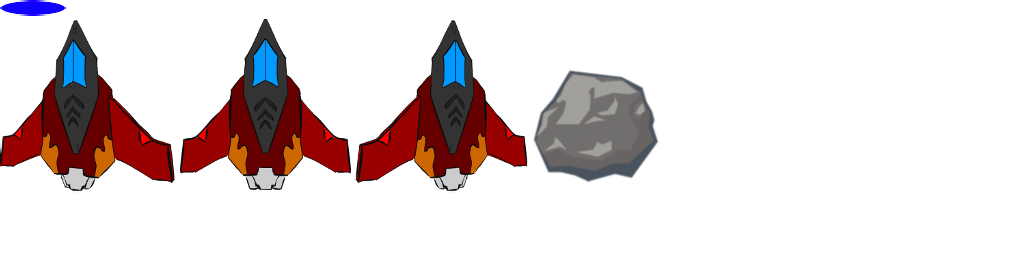
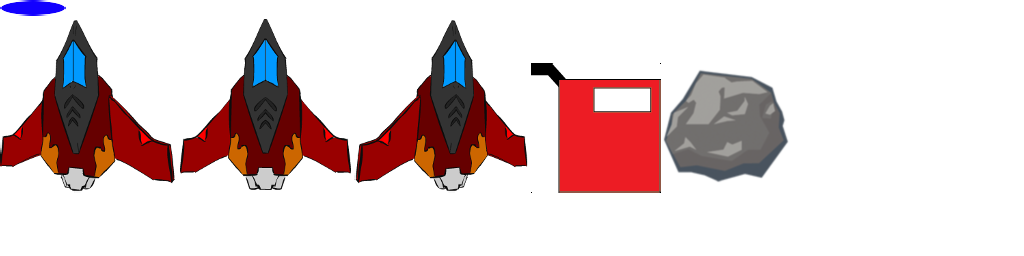
fuel now spawns and it is playable

Changed region(s): [[0.5, 0.25, 0.7812, 0.7812]]

diff --git a/core/src/com/hypetrainstudios/dontcrash/entities/SpaceShip.java b/core/src/com/hypetrainstudios/dontcrash/entities/SpaceShip.java
@@ -18,8 +18,6 @@ public class SpaceShip extends Entity implements InputProcessor{
 	private float fireRate;
 	private float fireCounter;
 	
-	
-	
 	/* Used for Dodge Method */
 	private float percent;
 	private float dodgeRate;
@@ -36,8 +34,6 @@ public class SpaceShip extends Entity implements InputProcessor{
 	private float distanceTraveled;
 	public SpaceShip(){
 		this.image = new Sprite(AssetHandler.manager.get(AssetHandler.atlasImages).findRegion("space_ship_normal"));
-		
-		
 		
 		/* Positions */
 		this.centerPosition = Gdx.graphics.getHeight() * (3/6f);
@@ -60,8 +56,8 @@ public class SpaceShip extends Entity implements InputProcessor{
 		this.fireCounter = 1.5f;
 		
 		
-		this.dodgeCounter = .75f;
-		this.dodgeRate = 1.5f;
+		this.dodgeCounter = .25f;
+		this.dodgeRate = .5f;
 		
 		this.dodgeStart = bottomPosition;
 		this.dodgeEnd = topPosition;
@@ -69,8 +65,8 @@ public class SpaceShip extends Entity implements InputProcessor{
 		this.dodgeFinished = true;
 		
 		
-		this.dodgeTimeMiddle = .75f;
-		this.dodgeTimeTop = 1.5f;
+		this.dodgeTimeMiddle = .25f;
+		this.dodgeTimeTop = .5f;
 		this.dodgeTimeBottom = 0;
 		
 		this.dodgeTimeTemp = this.dodgeTimeMiddle;
@@ -78,7 +74,7 @@ public class SpaceShip extends Entity implements InputProcessor{
 		
 		this.currentInput = -1;
 		
-		increaseDodgeRate(1f);
+		//increaseDodgeRate(1f);
 		
 		
 	}
@@ -132,7 +128,6 @@ public class SpaceShip extends Entity implements InputProcessor{
 		this.dodgeTimeMiddle = newRate/2f;
 		this.dodgeTimeTop = newRate;
 	}
-	
 	private void updateCamera(){
 		DontCrash.cam.position.x = (this.x) + (.4f*Gdx.graphics.getWidth());
 		DontCrash.cam.update();
@@ -187,6 +182,10 @@ public class SpaceShip extends Entity implements InputProcessor{
 	}
 	@Override
 	public boolean keyUp(int keycode) {
+		if(fireCounter>=fireRate&&dodgeFinished&&keycode==Keys.SPACE){
+			DontCrash.createProjectile(this.x + 50, this.y);
+			fireCounter = 0;
+		}
 		if(keycode==Keys.W||keycode==Keys.S){
 		
 		if(currentInput==Keys.W||currentInput==Keys.A){
@@ -219,12 +218,7 @@ public class SpaceShip extends Entity implements InputProcessor{
 
 	@Override
 	public boolean touchUp(int screenX, int screenY, int pointer, int button) {
-		if(fireCounter>=fireRate&&dodgeFinished){
-			DontCrash.createProjectile(this.x + 50, this.y);
-			fireCounter = 0;
-		}
-		if(button==Buttons.RIGHT)
-			DontCrash.reset();
+		
 		return false;
 	}
 

diff --git a/core/src/com/hypetrainstudios/dontcrash/handlers/ChunkHandler.java b/core/src/com/hypetrainstudios/dontcrash/handlers/ChunkHandler.java
@@ -6,7 +6,7 @@ import com.badlogic.gdx.math.Rectangle;
 import com.hypetrainstudios.dontcrash.DontCrash;
 
 public class ChunkHandler {
-	private static float gapX = Gdx.graphics.getWidth()/2;
+	private static float gapX = Gdx.graphics.getWidth()*.6f ;
 	private static int waveCounter = 0;
 	private static int chunkCounter = 0;
 	private static final float centerPosition = Gdx.graphics.getHeight() * (3/6f);
@@ -44,8 +44,22 @@ public class ChunkHandler {
 	}
 	public static void createChunk(){
 		for(int i = 0; i<10; i++){
+			
 			waveCounter++;
 			int numberOfRocksPerWave = MathUtils.random(1, 3);
+			
+			if(i==7){
+				int rdm = MathUtils.random(2);
+				if(rdm==0){
+					DontCrash.createFuel((gapX * waveCounter)-(Gdx.graphics.getWidth()*.1f),topPosition);
+				}
+				else if(rdm==1){
+					DontCrash.createFuel((gapX * waveCounter)-(Gdx.graphics.getWidth()*.1f),centerPosition);
+				}
+				else{
+					DontCrash.createFuel((gapX * waveCounter)-(Gdx.graphics.getWidth()*.1f),bottomPosition);
+				}
+			}
 			if(numberOfRocksPerWave==3){
 				DontCrash.createSpaceRock((gapX * waveCounter),topPosition);
 				DontCrash.createSpaceRock((gapX * waveCounter),centerPosition);

diff --git a/core/src/com/hypetrainstudios/dontcrash/handlers/CollisionHandler.java b/core/src/com/hypetrainstudios/dontcrash/handlers/CollisionHandler.java
@@ -4,6 +4,7 @@ import com.hypetrainstudios.dontcrash.DontCrash;
 
 public class CollisionHandler {
 	public static void update(){
+		
 		for(int i = 0; i<DontCrash.projectiles.size();i++){
 			for(int n = 0; n < DontCrash.spaceRocks.size(); n ++ ){
 				if(DontCrash.projectiles.get(i).getRectangle().overlaps(DontCrash.spaceRocks.get(n).getRectangle())){
@@ -11,6 +12,12 @@ public class CollisionHandler {
 				}
 			}
 		}
+		
+		for(int i = 0; i < DontCrash.fuel.size(); i ++ ){
+			if(DontCrash.fuel.get(i).getRectangle().overlaps(DontCrash.spaceShip.getRectangle()))
+				collisionBetweenFuelAndSpaceShip(i);
+		}
+		
 		for(int i = 0; i < DontCrash.spaceRocks.size(); i ++ ){
 			if(DontCrash.spaceRocks.get(i).getRectangle().overlaps(DontCrash.spaceShip.getRectangle()))
 				collisionBetweenSpaceRockAndSpaceShip(i);
@@ -23,5 +30,8 @@ public class CollisionHandler {
 	public static void collisionBetweenSpaceRockAndSpaceShip(int i){
 		DontCrash.spaceRocks.get(i).collisionWithSpaceShip();
 		DontCrash.spaceShip.collisionWithSpaceRock();
+	}
+	public static void collisionBetweenFuelAndSpaceShip(int i){
+		DontCrash.fuel.get(i).collisionWithSpaceShip();
 	}
 }

diff --git a/core/src/com/hypetrainstudios/dontcrash/entities/Fuel.java b/core/src/com/hypetrainstudios/dontcrash/entities/Fuel.java
@@ -1,5 +1,21 @@
 package com.hypetrainstudios.dontcrash.entities;
 
-public class Fuel extends Entity{
+import com.badlogic.gdx.graphics.g2d.Sprite;
+import com.hypetrainstudios.dontcrash.DontCrash;
+import com.hypetrainstudios.dontcrash.handlers.AssetHandler;
 
+public class Fuel extends Entity{
+	public Fuel(float x, float y){
+		this.image = new Sprite(AssetHandler.manager.get(AssetHandler.atlasImages).findRegion("fuelcan"));
+		this.x = x;
+		this.y = y;
+		this.image.setCenter(this.x, this.y);
+		this.active = true;
+		this.rectangleForCollision = this.image.getBoundingRectangle();
+	}
+	@Override
+	public void collisionWithSpaceShip(){
+		this.active = false;
+		DontCrash.spaceShip.resetDistanceTraveled();
+	}
 }

diff --git a/core/src/com/hyeptrainstudios/dontcrash/screens/GameScreen.java b/core/src/com/hyeptrainstudios/dontcrash/screens/GameScreen.java
@@ -36,6 +36,8 @@ public class GameScreen implements Screen{
 		for(int i = 0; i<DontCrash.projectiles.size(); i ++)
 			DontCrash.projectiles.get(i).getSprite().draw(DontCrash.batch);
 		
+		for(int i = 0; i<DontCrash.fuel.size(); i ++)
+			DontCrash.fuel.get(i).getSprite().draw(DontCrash.batch);
 		
 		DontCrash.batch.end();
 	}

diff --git a/core/src/com/hypetrainstudios/dontcrash/DontCrash.java b/core/src/com/hypetrainstudios/dontcrash/DontCrash.java
@@ -61,6 +61,9 @@ public class DontCrash extends Game {
 	public static void createProjectile(float x, float y){
 		projectiles.add(new Projectile(x, y));
 	}
+	public static void createFuel(float x, float y){
+		fuel.add(new Fuel(x, y));
+	}
 	public static void reset(){
 		spaceRocks.clear();
 		fuel.clear();

diff --git a/core/src/com/hypetrainstudios/dontcrash/entities/FuelMeter.java b/core/src/com/hypetrainstudios/dontcrash/entities/FuelMeter.java
@@ -28,5 +28,8 @@ public class FuelMeter extends Entity {
 	}
 	public void updateProgress(float fuelPercentage){
 		this.image.setRegion(fuelAnimation.getKeyFrame(fuelPercentage));
+		if(fuelAnimation.isAnimationFinished(fuelPercentage)){
+			DontCrash.running = false;
+		}
 	}
 }
